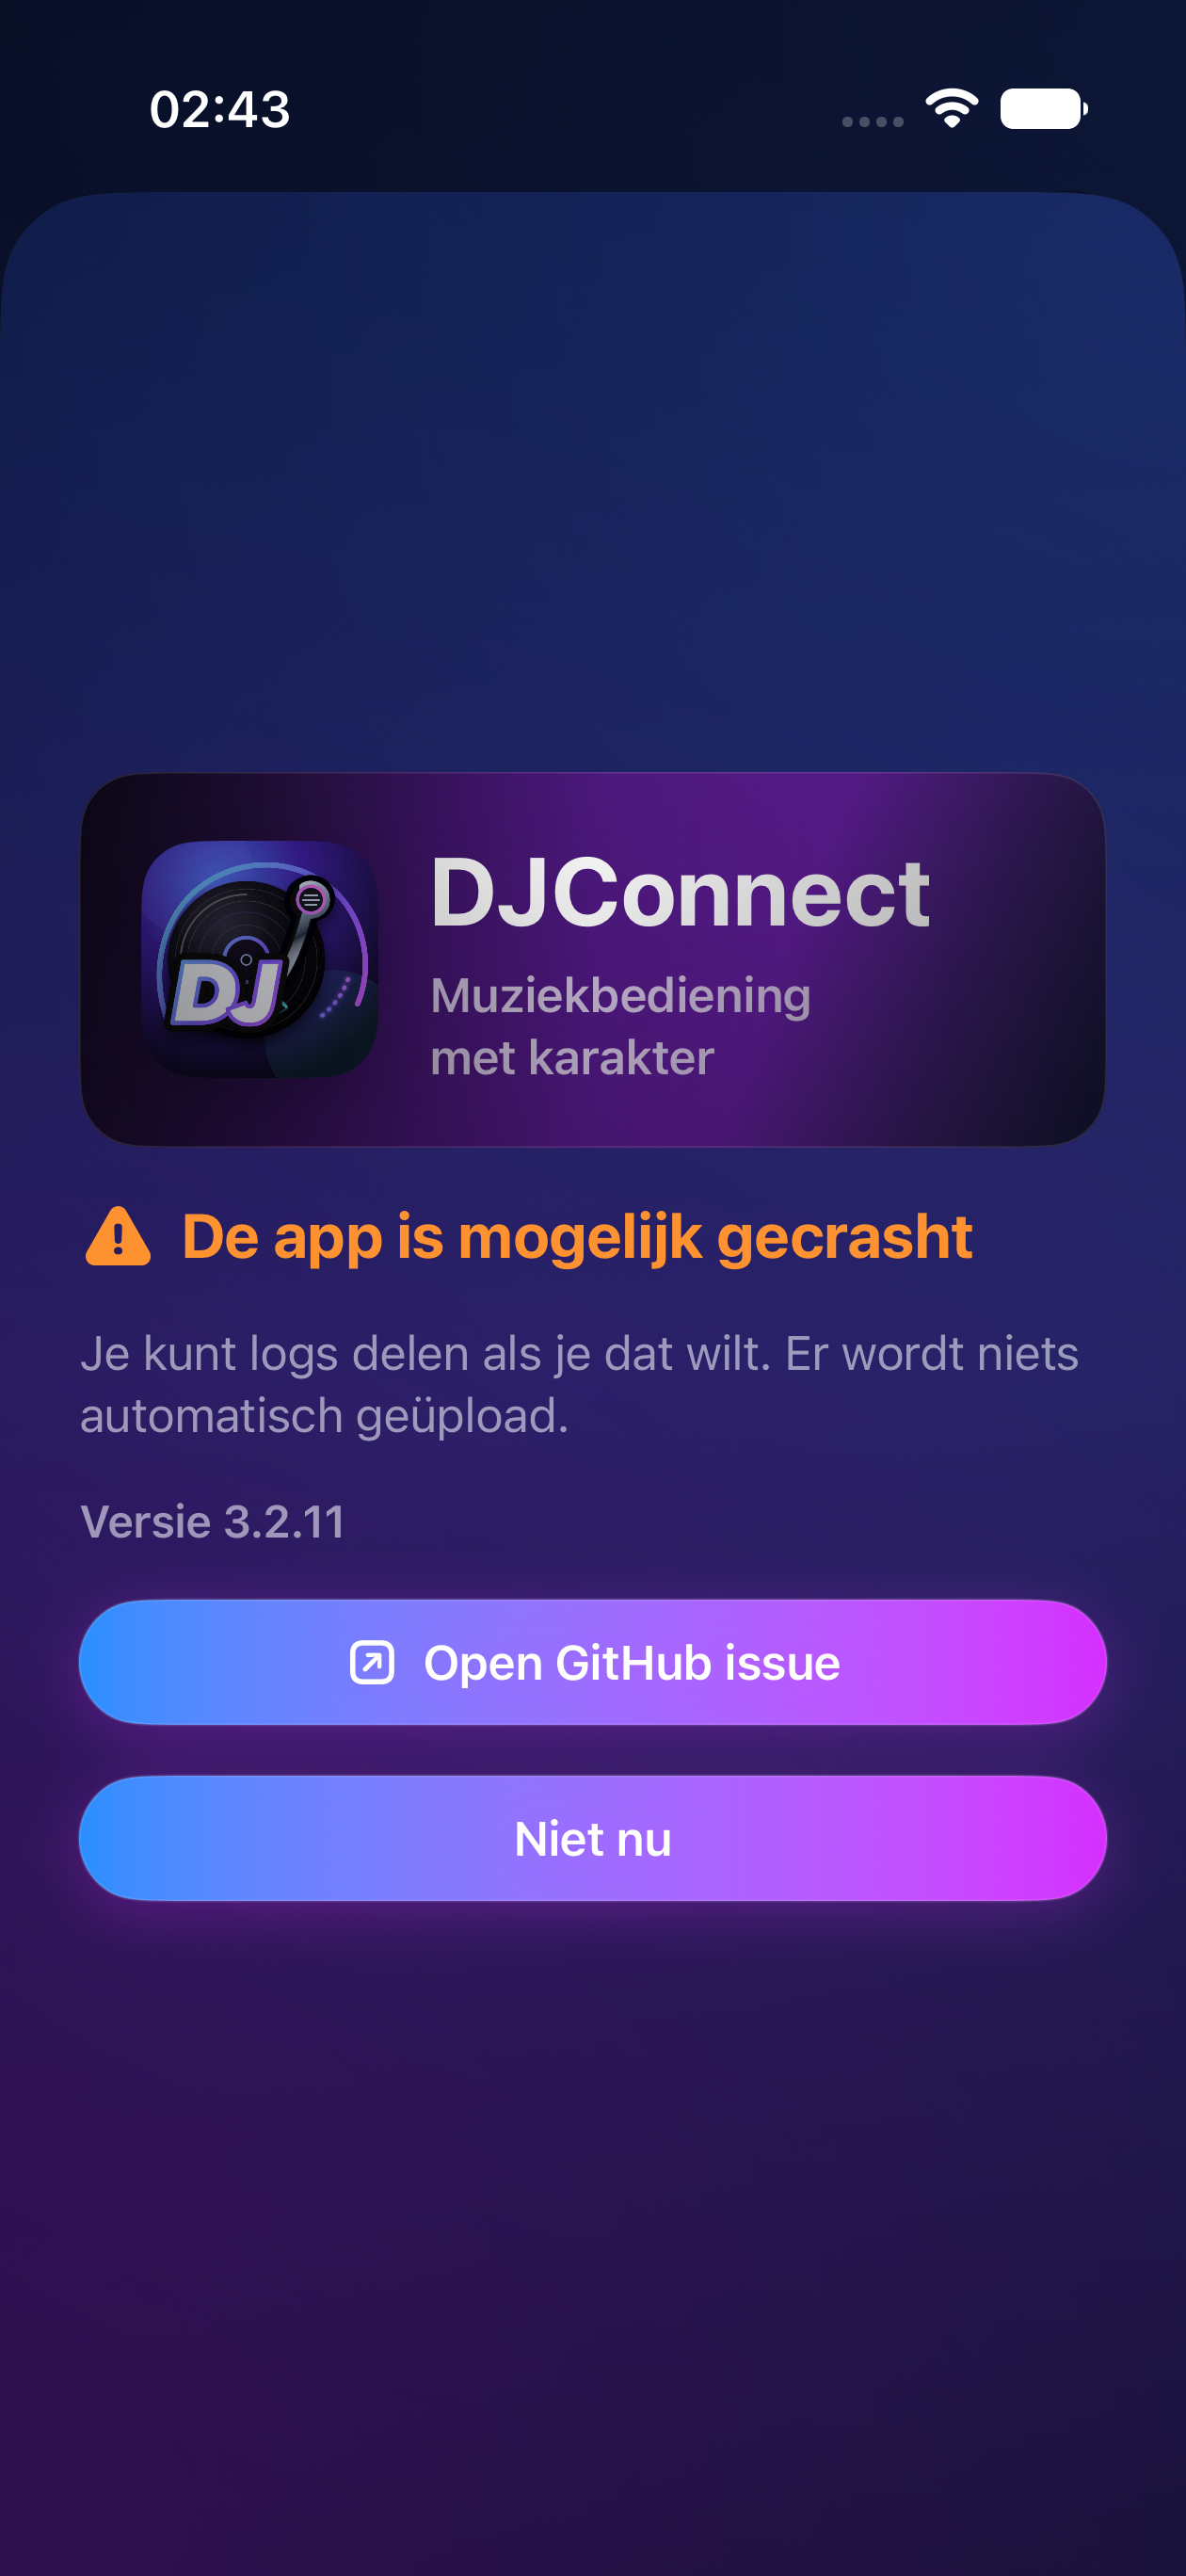
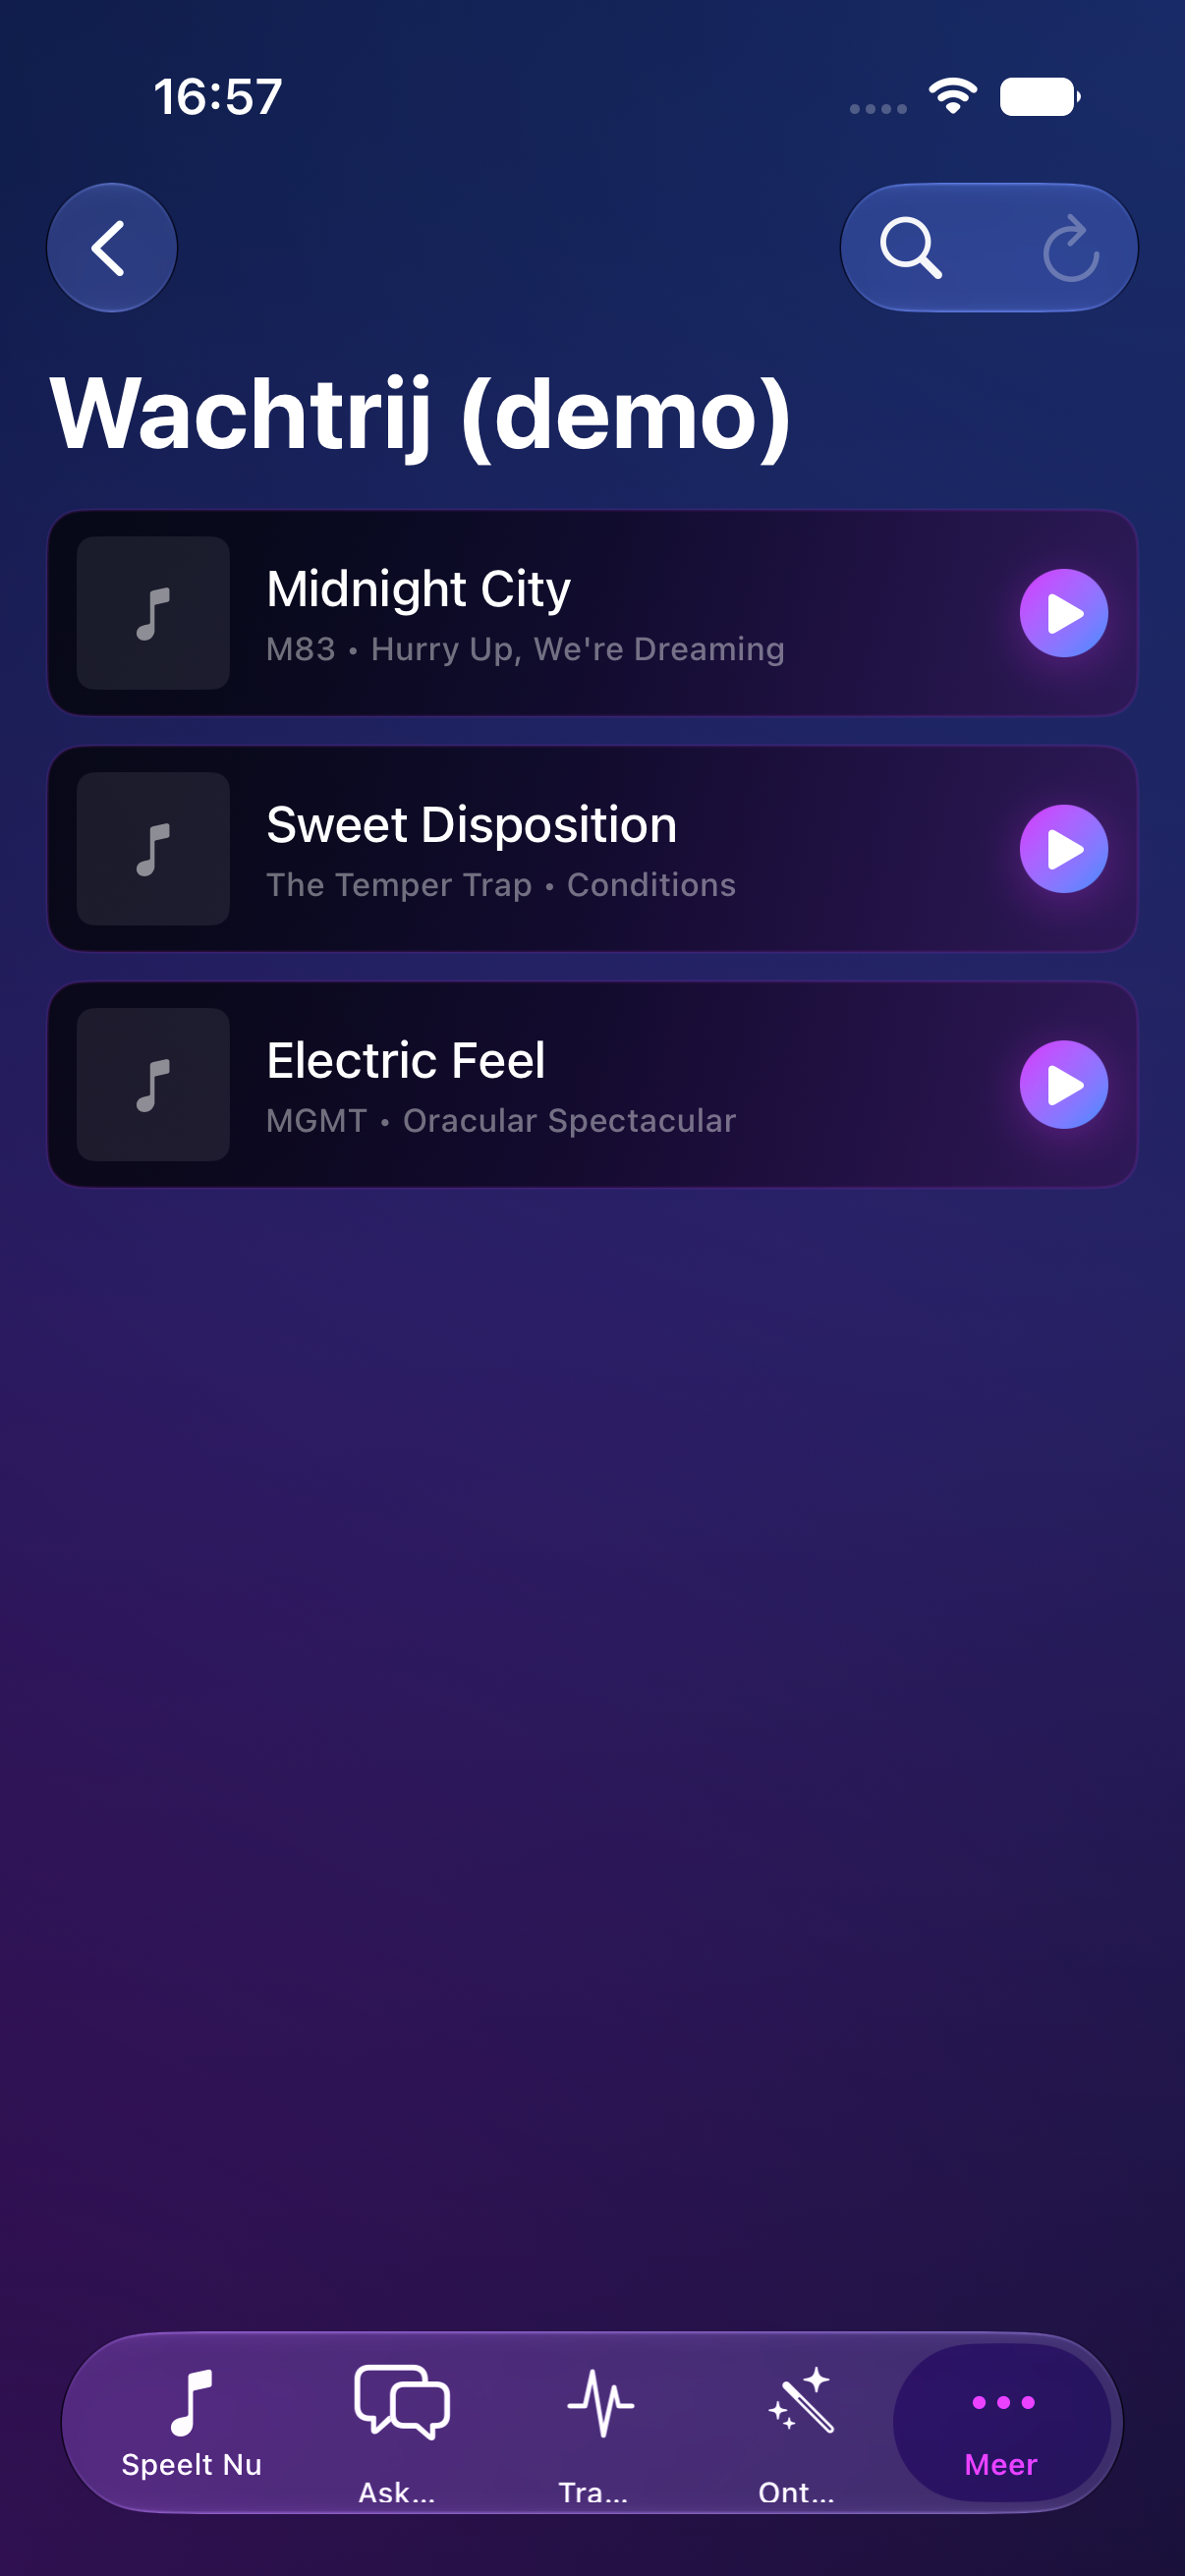
Finish ISS-008 runtime UI fixtures

diff --git a/Tests/DJConnectIOSUITests/DJConnectIOSUITests.swift b/Tests/DJConnectIOSUITests/DJConnectIOSUITests.swift
@@ -47,16 +47,31 @@ final class DJConnectIOSUITests: XCTestCase {
     }
 
     private func launchRuntimeFixtureApp(_ fixture: String, screen: String? = nil) -> XCUIApplication {
-        let app = XCUIApplication(bundleIdentifier: "dev.djconnect.ios")
-        var arguments = ["--uitesting", "--runtime-fixture", fixture, "--runtime-fixture=\(fixture)", "-AppleLanguages", "(nl)", "-AppleLocale", "nl_NL"]
+        let app = XCUIApplication()
+        app.terminate()
+        var arguments = [
+            "--uitesting",
+            "--runtime-fixture",
+            fixture,
+            "--runtime-fixture=\(fixture)",
+            "-DJCONNECTRuntimeFixture",
+            fixture,
+            "-AppleLanguages",
+            "(nl)",
+            "-AppleLocale",
+            "nl_NL"
+        ]
         if let screen {
             arguments.append("--screenshot-screen=\(screen)")
+            arguments.append(contentsOf: ["-DJCONNECTScreenshotScreen", screen])
         }
         app.launchArguments = arguments
         app.launchEnvironment = [
             "DJCONNECT_UITEST_HA_URL": "http://127.0.0.1:8123",
             "DJCONNECT_UITEST_RUNTIME_FIXTURE": fixture
         ]
+        app.launch()
+        RunLoop.current.run(until: Date().addingTimeInterval(0.4))
         app.terminate()
         app.launch()
         return app
@@ -246,6 +261,10 @@ final class DJConnectIOSUITests: XCTestCase {
         firstElement(containing: text, in: app).waitForExistence(timeout: timeout)
     }
 
+    private func waitForRuntimeFixture(_ app: XCUIApplication, timeout: TimeInterval = 8) -> Bool {
+        app.descendants(matching: .any)["uitest-runtime-fixture-active"].waitForExistence(timeout: timeout)
+    }
+
     private func revealManualPairing(in app: XCUIApplication) {
         let manualToggle = app.buttons["pairing-manual-toggle"]
         if manualToggle.waitForExistence(timeout: 3), manualToggle.isHittable {
@@ -333,6 +352,7 @@ final class DJConnectIOSUITests: XCTestCase {
     func testPairingSuccessFixtureDismissesToRuntime() {
         let app = launchRuntimeFixtureApp("pairing_success")
 
+        XCTAssertTrue(waitForRuntimeFixture(app))
         XCTAssertTrue(app.descendants(matching: .any)["screen-pairing"].waitForExistence(timeout: 8))
         let doneButton = app.buttons["Let's Rock!"]
         XCTAssertTrue(doneButton.waitForExistence(timeout: 3))
@@ -347,21 +367,22 @@ final class DJConnectIOSUITests: XCTestCase {
     func testRuntimeFixtureShowsPlaybackOutputQueueAndPlaylists() {
         let app = launchRuntimeFixtureApp("paired_runtime")
 
+        XCTAssertTrue(waitForRuntimeFixture(app))
         XCTAssertTrue(app.descendants(matching: .any)["screen-now-playing"].waitForExistence(timeout: 8))
         openNowPlayingTab(app)
         XCTAssertTrue(waitForText("Fixture Track", in: app))
         XCTAssertTrue(waitForText("Fixture Artist", in: app))
         XCTAssertTrue(waitForText("Fixture Living Room", in: app))
 
-        let queueApp = launchRuntimeFixtureApp("paired_runtime", screen: "queue")
-        XCTAssertTrue(queueApp.descendants(matching: .any)["screen-queue"].waitForExistence(timeout: 8))
-        XCTAssertTrue(waitForText("Fixture Next", in: queueApp))
-        XCTAssertTrue(waitForText("Fixture Artist Two", in: queueApp))
+        tapTabOrMoreItem("Wachtrij", in: app)
+        XCTAssertTrue(app.descendants(matching: .any)["screen-queue"].waitForExistence(timeout: 8))
+        XCTAssertTrue(waitForText("Fixture Next", in: app))
+        XCTAssertTrue(waitForText("Fixture Artist Two", in: app))
 
-        let playlistsApp = launchRuntimeFixtureApp("paired_runtime", screen: "playlists")
-        XCTAssertTrue(playlistsApp.descendants(matching: .any)["screen-playlists"].waitForExistence(timeout: 8))
-        XCTAssertTrue(waitForText("Fixture Playlist", in: playlistsApp))
-        XCTAssertTrue(waitForText("Fixture Dinner", in: playlistsApp))
+        tapTabOrMoreItem("Afspeellijsten", in: app)
+        XCTAssertTrue(app.descendants(matching: .any)["screen-playlists"].waitForExistence(timeout: 8))
+        XCTAssertTrue(waitForText("Fixture Playlist", in: app))
+        XCTAssertTrue(waitForText("Fixture Dinner", in: app))
     }
 
     func testRuntimeFixtureShowsBackendUnavailableRecoveryState() {
@@ -376,8 +397,8 @@ final class DJConnectIOSUITests: XCTestCase {
     func testRuntimeFixtureShowsStaleAuthPairingRecovery() {
         let app = launchRuntimeFixtureApp("stale_auth")
 
+        XCTAssertTrue(app.descendants(matching: .any)["uitest-runtime-fixture-stale_auth"].waitForExistence(timeout: 8))
         XCTAssertTrue(app.descendants(matching: .any)["screen-pairing"].waitForExistence(timeout: 8))
-        XCTAssertTrue(waitForText("Fixture stale pairing", in: app))
         XCTAssertTrue(app.buttons["pairing-start-demo-button"].exists)
     }
 
@@ -395,8 +416,9 @@ final class DJConnectIOSUITests: XCTestCase {
         XCTAssertTrue(app.descendants(matching: .any)["screen-now-playing"].waitForExistence(timeout: 8))
         openNowPlayingTab(app)
         tapTabOrMoreItem("Ask DJ", in: app)
-        XCTAssertTrue(waitForText("Ask DJ fixture response", in: app))
-        XCTAssertTrue(waitForText("muziekbackend", in: app))
+        XCTAssertTrue(app.descendants(matching: .any)["screen-ask-dj"].waitForExistence(timeout: 8))
+        XCTAssertTrue(app.descendants(matching: .any)["uitest-runtime-fixture-voice_unavailable"].waitForExistence(timeout: 3))
+        XCTAssertTrue(app.descendants(matching: .any)["uitest-voice-unavailable"].waitForExistence(timeout: 3))
     }
 
     func testDemoModeCanExitBackToPairingFlow() {

diff --git a/Sources/DJConnectUI/DJConnectRootView.swift b/Sources/DJConnectUI/DJConnectRootView.swift
@@ -779,6 +779,32 @@ public struct DJConnectRootView: View {
             #if os(iOS)
             .background(.clear)
             #endif
+            #if DEBUG
+            if model.isUITestRuntimeFixtureActive {
+                Text("uitest-runtime-fixture-active")
+                    .font(.caption2)
+                    .frame(width: 1, height: 1)
+                    .opacity(0.01)
+                    .accessibilityIdentifier("uitest-runtime-fixture-active")
+                    .accessibilityLabel("uitest-runtime-fixture-active")
+                if let scenario = model.uiTestRuntimeFixtureScenario {
+                    Text("uitest-runtime-fixture-\(scenario)")
+                        .font(.caption2)
+                        .frame(width: 1, height: 1)
+                        .opacity(0.01)
+                        .accessibilityIdentifier("uitest-runtime-fixture-\(scenario)")
+                        .accessibilityLabel("uitest-runtime-fixture-\(scenario)")
+                }
+                if model.voiceStatus == .unavailable {
+                    Text("uitest-voice-unavailable")
+                        .font(.caption2)
+                        .frame(width: 1, height: 1)
+                        .opacity(0.01)
+                        .accessibilityIdentifier("uitest-voice-unavailable")
+                        .accessibilityLabel("uitest-voice-unavailable")
+                }
+            }
+            #endif
         }
         .sheet(item: rootSheetBinding) { sheet in
             rootSheetView(sheet)
@@ -850,7 +876,9 @@ public struct DJConnectRootView: View {
 
     private func handleScreenshotScreenRequestIfNeeded() {
         #if DEBUG
-        guard let screen = ProcessInfo.processInfo.arguments
+        guard let screen = UserDefaults.standard.string(forKey: "DJCONNECTScreenshotScreen")
+            ?? launchArgumentValue(named: "-DJCONNECTScreenshotScreen")
+            ?? ProcessInfo.processInfo.arguments
             .first(where: { $0.hasPrefix("--screenshot-screen=") })?
             .split(separator: "=", maxSplits: 1)
             .last
@@ -889,6 +917,18 @@ public struct DJConnectRootView: View {
         }
         #endif
     }
+
+    #if DEBUG
+    private func launchArgumentValue(named name: String) -> String? {
+        let arguments = ProcessInfo.processInfo.arguments
+        guard let index = arguments.firstIndex(of: name),
+              arguments.indices.contains(arguments.index(after: index)) else {
+            return nil
+        }
+        let value = arguments[arguments.index(after: index)]
+        return value.isEmpty ? nil : value
+    }
+    #endif
 
     #if os(iOS)
     private func usesTopTabLayout(for size: CGSize) -> Bool {

diff --git a/Sources/DJConnectUI/DJConnectAppModel.swift b/Sources/DJConnectUI/DJConnectAppModel.swift
@@ -721,6 +721,7 @@ public final class DJConnectAppModel: ObservableObject {
     @Published public var isDemoMode = false
     @Published public private(set) var isMonkeyTestingMode = false
     @Published public private(set) var isUITestRuntimeFixtureActive = false
+    @Published public private(set) var uiTestRuntimeFixtureScenario: String?
     @Published public var wakeWordEnabled = false {
         didSet {
             wakeWordEnabled ? startWakeWordListening() : stopWakeWordListening()
@@ -1054,6 +1055,18 @@ public final class DJConnectAppModel: ObservableObject {
     }
 
     public var shouldShowPairingScreen: Bool {
+        #if DEBUG
+        if isUITestRuntimeFixtureActive {
+            switch uiTestRuntimeFixtureScenario {
+            case "pairing_success", "stale_auth":
+                return !isShowingWelcome
+                    && !isShowingCrashReportPrompt
+                    && !isShowingTokenStorageError
+            default:
+                return false
+            }
+        }
+        #endif
         let shouldShowAppleWatchPairing = pairingFlowTarget == .appleWatch
             && (isAppleWatchPairingPending || isShowingPairingSuccess)
         let shouldShowIPhonePairing = !isDemoMode
@@ -1597,6 +1610,11 @@ public final class DJConnectAppModel: ObservableObject {
         updatePlaybackProgressTimer()
         updateNowPlayingPollTimer()
         syncTrackInsightLiveActivity(reason: "App became active")
+        #if DEBUG
+        guard !isUITestRuntimeFixtureActive else {
+            return
+        }
+        #endif
         guard pairingStatus == .paired, !isDemoMode else {
             return
         }
@@ -8179,6 +8197,7 @@ public final class DJConnectAppModel: ObservableObject {
     public func applyUITestRuntimeFixture(_ rawScenario: String) {
         let scenario = rawScenario.trimmingCharacters(in: .whitespacesAndNewlines).lowercased()
         isUITestRuntimeFixtureActive = true
+        uiTestRuntimeFixtureScenario = scenario
         defaults.set(true, forKey: welcomeSeenKey)
         defaults.set(appVersion, forKey: lastSeenAppVersionKey)
         isShowingWelcome = false

diff --git a/Apps/DJConnectIOS/DJConnectIOSApp.swift b/Apps/DJConnectIOS/DJConnectIOSApp.swift
@@ -36,6 +36,7 @@ struct DJConnectIOSApp: App {
             }
             let runtimeFixture = processInfo.environment["DJCONNECT_UITEST_RUNTIME_FIXTURE"]
                 ?? launchArgumentValue(named: "--runtime-fixture", arguments: processInfo.arguments)
+                ?? launchArgumentValue(named: "-DJCONNECTRuntimeFixture", arguments: processInfo.arguments)
             let tokenStore = DJConnectInMemoryTokenStore(
                 token: nil
             )
@@ -69,6 +70,7 @@ struct DJConnectIOSApp: App {
         let value = arguments[arguments.index(after: index)]
         return value.isEmpty ? nil : value
     }
+
 }
 
 final class DJConnectIOSAppDelegate: NSObject, UIApplicationDelegate, @preconcurrency UNUserNotificationCenterDelegate {

diff --git a/Tests/DJConnectIOSUITests/DJConnectIOSSettingsTests.swift b/Tests/DJConnectIOSUITests/DJConnectIOSSettingsTests.swift
@@ -6,6 +6,7 @@ final class DJConnectIOSSettingsTests: XCTestCase {
         let app = XCUIApplication()
         app.launchArguments.append(contentsOf: ["--uitesting", "-AppleLanguages", "(nl)", "-AppleLocale", "nl_NL"])
         app.launchEnvironment["DJCONNECT_UITEST_HA_URL"] = "http://127.0.0.1:8123"
+        app.terminate()
         app.launch()
 
         enterDemoModeIfNeeded(app)

diff --git a/docs/ISSUES.md b/docs/ISSUES.md
@@ -158,10 +158,11 @@ Completion notes:
 ### ISS-008: Add XCUITests For Pairing And Runtime Flows
 
 Priority: medium
-Status: in progress
+Status: done
 
-The initial UI test target exists, but end-to-end pairing and network flows
-need a mock Home Assistant server or a live test Home Assistant environment.
+The iOS UI test target now covers deterministic pairing and runtime flows with
+recorded in-app Home Assistant fixtures, isolated defaults, and an in-memory
+token store.
 
 Acceptance:
 
@@ -179,11 +180,17 @@ Progress notes:
   Settings URL seeding, primary navigation, local Games menu choices, jump URL
   routing, screenshot capture cleanup, and safe monkey navigation.
 - Added focused UI coverage for hardware-keyboard game behavior.
-- Full deterministic pairing/runtime XCUITest coverage remains open until the
-  app can run against a mock Home Assistant server or recorded fixture that
-  exercises successful pairing, status/runtime loading, stale auth, backend
-  unavailable, version mismatch, output/queue/playlist, Ask DJ, and voice/PTT
-  UI states.
+- Added recorded runtime fixtures for successful pairing dismissal, paired
+  runtime status, backend unavailable recovery copy, stale auth pairing
+  recovery, version mismatch gating, output/queue/playlist navigation, Ask DJ,
+  and voice unavailable UI state.
+- Verified with the focused ISS-008 XCUITest fixture set:
+  `testPairingSuccessFixtureDismissesToRuntime`,
+  `testRuntimeFixtureShowsPlaybackOutputQueueAndPlaylists`,
+  `testRuntimeFixtureShowsBackendUnavailableRecoveryState`,
+  `testRuntimeFixtureShowsStaleAuthPairingRecovery`,
+  `testRuntimeFixtureShowsVersionMismatchGate`, and
+  `testRuntimeFixtureShowsVoiceUnavailableStateInAskDJ`.
 
 ### ISS-014: Add Hardware Keyboard UI Coverage For Games
 

diff --git a/docs/RELEASE.md b/docs/RELEASE.md
@@ -718,19 +718,12 @@ Use a Home Assistant instance with the matching `djconnect` integration.
 
 ## UI Test Automation
 
-The source tree can only provide deterministic unit tests without a HA fixture.
-For end-to-end UI tests, provide either:
-
-- a real HA URL plus test integration credentials on the local network; or
-- a recorded/mock HA server that implements `/api/djconnect/v1/pair`,
-  `/api/djconnect/v1/status`, `/api/djconnect/v1/command`, and
-  `/api/djconnect/v1/voice`.
-
 The `DJConnectIOSUITests` target now launches the iOS app in deterministic
-`--uitesting` mode with isolated defaults and a mock Home Assistant URL. The
-iOS and macOS UI tests include smoke coverage for primary navigation, local
-Demo Mode, Games entry, Settings, and the `App opnieuw koppelen` action.
-Extend those targets with a real mock server fixture for pairing, output
-selection, queue, playlist/liked proxy, Ask DJ history sync, voice upload,
-stale auth, backend unavailable states, and sanitized backend/HTML error
-responses.
+`--uitesting` mode with isolated defaults, an in-memory token store, a mock
+Home Assistant URL, and recorded runtime fixtures. The iOS and macOS UI tests
+include smoke coverage for primary navigation, local Demo Mode, Games entry,
+Settings, and the `App opnieuw koppelen` action. The focused iOS runtime
+fixture set covers successful pairing dismissal, paired runtime status,
+backend unavailable recovery copy, stale auth pairing recovery, version
+mismatch gating, output/queue/playlist navigation, Ask DJ, and voice
+unavailable UI state.

diff --git a/docs/DEVELOPMENT.md b/docs/DEVELOPMENT.md
@@ -257,9 +257,9 @@ at a mock Home Assistant URL. The current tests verify deterministic launch,
 first-run dismissal, manual pairing form wiring, Demo Mode entry/exit, compact
 permission rows, primary navigation, jump URL routing, Settings URL seeding,
 local Games menu choices, hardware-keyboard game input, safe monkey navigation,
-and screenshot capture cleanup. Add a local mock HA server fixture before
-asserting successful pairing, runtime status loading, stale auth, backend
-unavailable, version mismatch, queue, playlist, output, Ask DJ, and voice flows.
+screenshot capture cleanup, and recorded runtime fixture flows for successful
+pairing, paired status loading, stale auth, backend unavailable, version
+mismatch, queue, playlist, output, Ask DJ, and voice unavailable states.
 
 ## Home Assistant Transport Check
 

diff --git a/docs/TODO.md b/docs/TODO.md
@@ -25,7 +25,7 @@ with acceptance criteria live in [ISSUES.md](ISSUES.md).
 - Keep the Apple app and Home Assistant integration on the same `major.minor`
   protocol line; app `3.2.x` requires HA `3.2.x`.
 - Work through the high-priority local issues in [ISSUES.md](ISSUES.md),
-  especially physical-device validation and remaining XCUITest fixture work.
+  especially physical-device validation.
 
 ## Playback
 